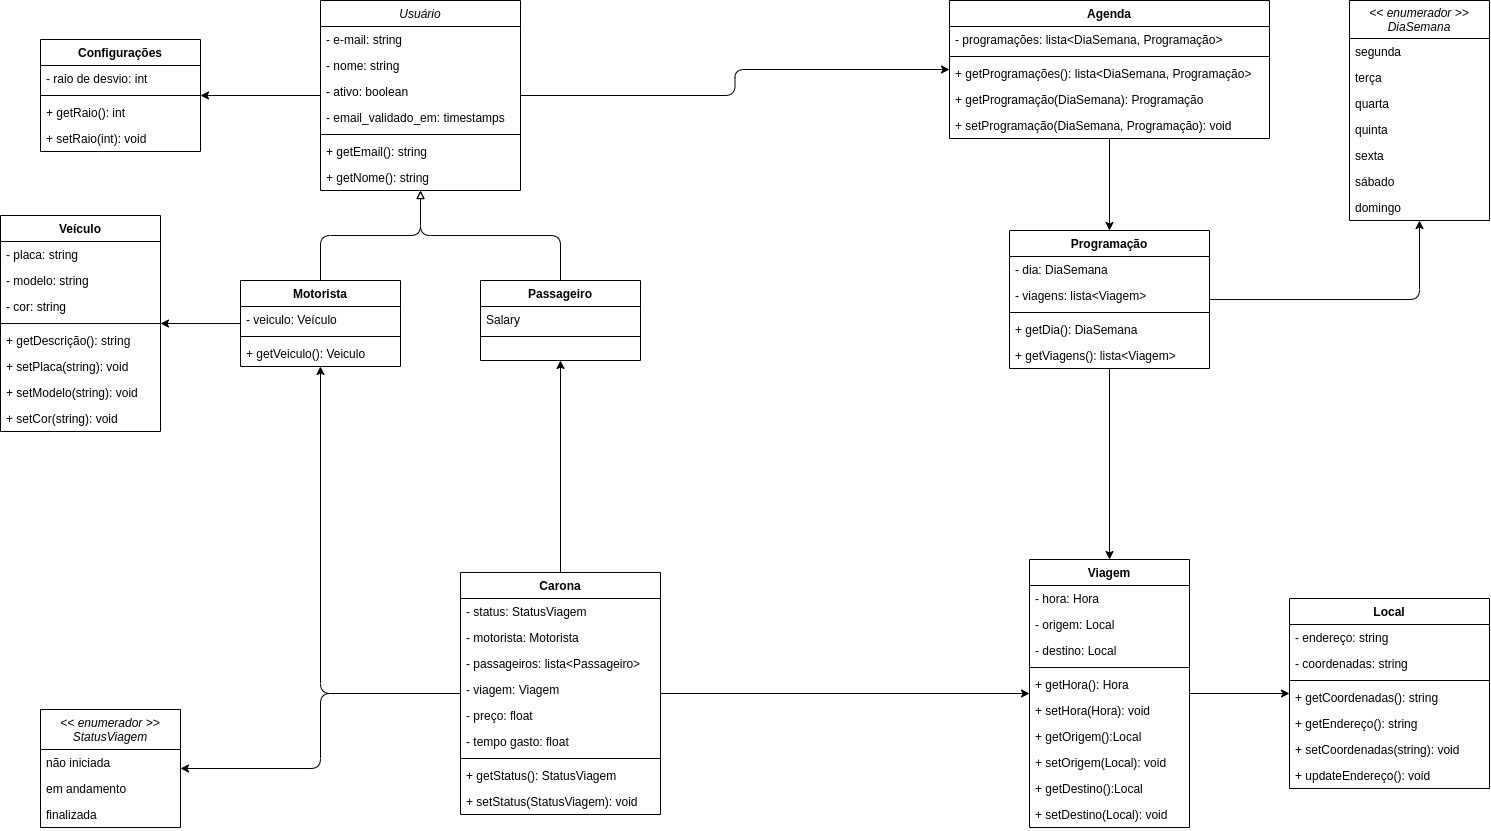
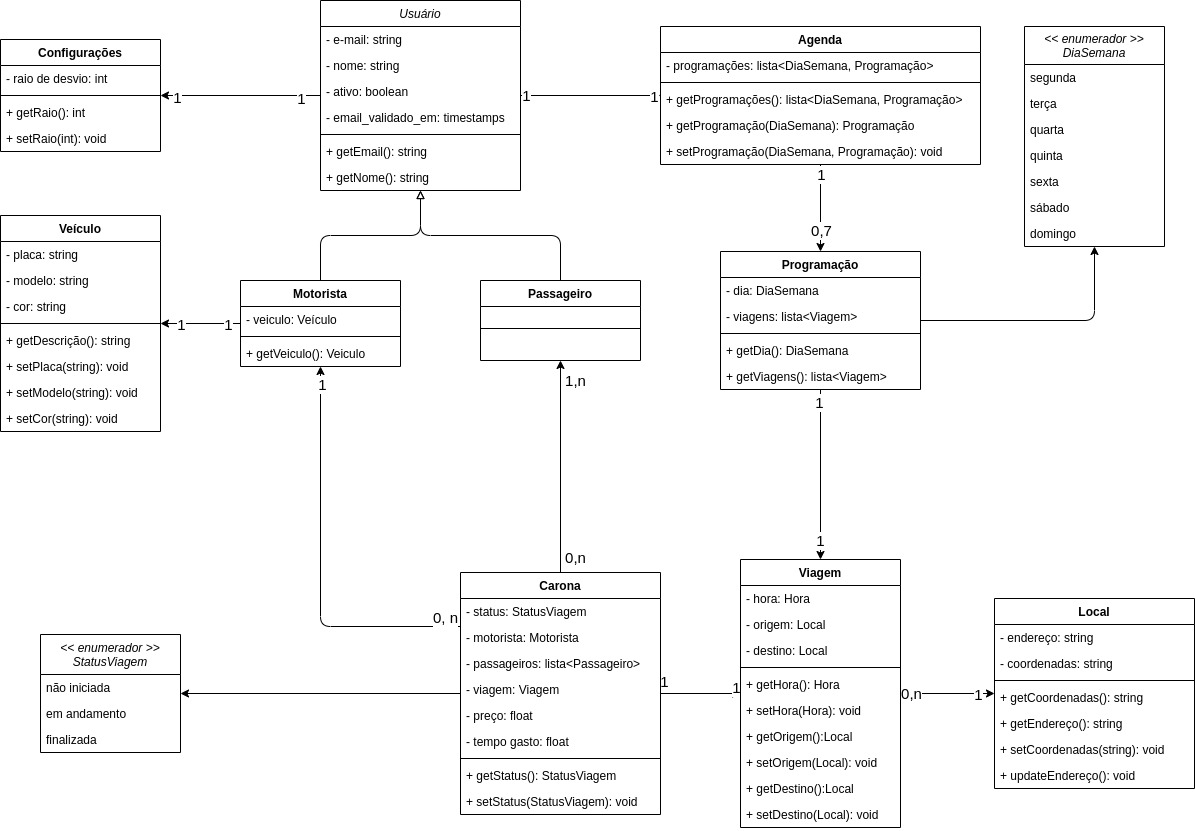
Atualização final do diagrama UML

diff --git a/Documentation/Diagrams/uml.md b/Documentation/Diagrams/uml.md
@@ -1,3 +1,22 @@
-# Diagrama de classes - UML
+# Diagrama de classes - UML do Servidor API
 
-[Diagrama de classes](Diagrams/uml.jpg)
+- Usuário, classe abstrata, contem os atributos em comum entre Motorista e Passageiro, possui relação com a Agenda e Configurações, devido ser para ambos os casos;
+- Configurações, compõe as preferências do usuário;
+- Motorista, uma herença de Usuário, contem o vínculo com o veículo e os usuários motoristas contidos no sistema. Aqui não há travamento para um motorista também ser passageiro, da mesma forma que um passageiro pode ser motorista;
+- Veículo, descrições do veículo que serão mantidas afim de segurança; A descrição serve também para os passageiros identificaram o veículo no processo da carona;
+- Passageiro, uma herança de Usuário, que define os passageiros contidos no sistema;
+- Agenda, um agrupamento das programações, contendo uma lista delas, na qual a chave é o dia da semana, definido pelo enumerador DiaSemana e contem o valor a Programação;
+- DiaSemana, enumerador definindo os dias da semana;
+- Programação, dado um dia da semana, contem uma lista de viagens a serem realizadas naquele determinado dia; A partir dessa configuração o sistema utilizará de base para buscas automáticas de caronas;
+- Viagem, definindo o horário, local de origem e local de destino temos uma viagem a ser programada ou que esteja em andamento;
+- Local, endereço que será utilizado pela viagem, ele contem as coordenadas e o endereço, que não passa de uma descrição do local;
+- Carona, processo da carona, ela deve conter o motorista obrigatoriamente e ao menos um passageiro; A Viagem é dada ou pela agenda ou de forma manual em uma Carona avulsa, o tempo gasto é definido apenas afins de relatórios e segurança: uma carona do ponto A ao ponto B que possui distância de 10km não deve levar 30h para ser realizada; O preço é a sugestão ou o acordo em que foi chegado para aquela viagem; Ademais a quantidade máxima de passageiros não possui limite visto que depende do veículo;
+- StatusViagem, um enumerador para definir como está o andamento da carona;
+
+<br>
+
+![Diagrama de container](Diagrams/uml.jpg)
+
+<br>
+
+> O diagrama de classes UML mostra os elementos de código (interfaces e classes) que compõem o componente ampliando um componente individual para mostrar como esse componente é implementado.
